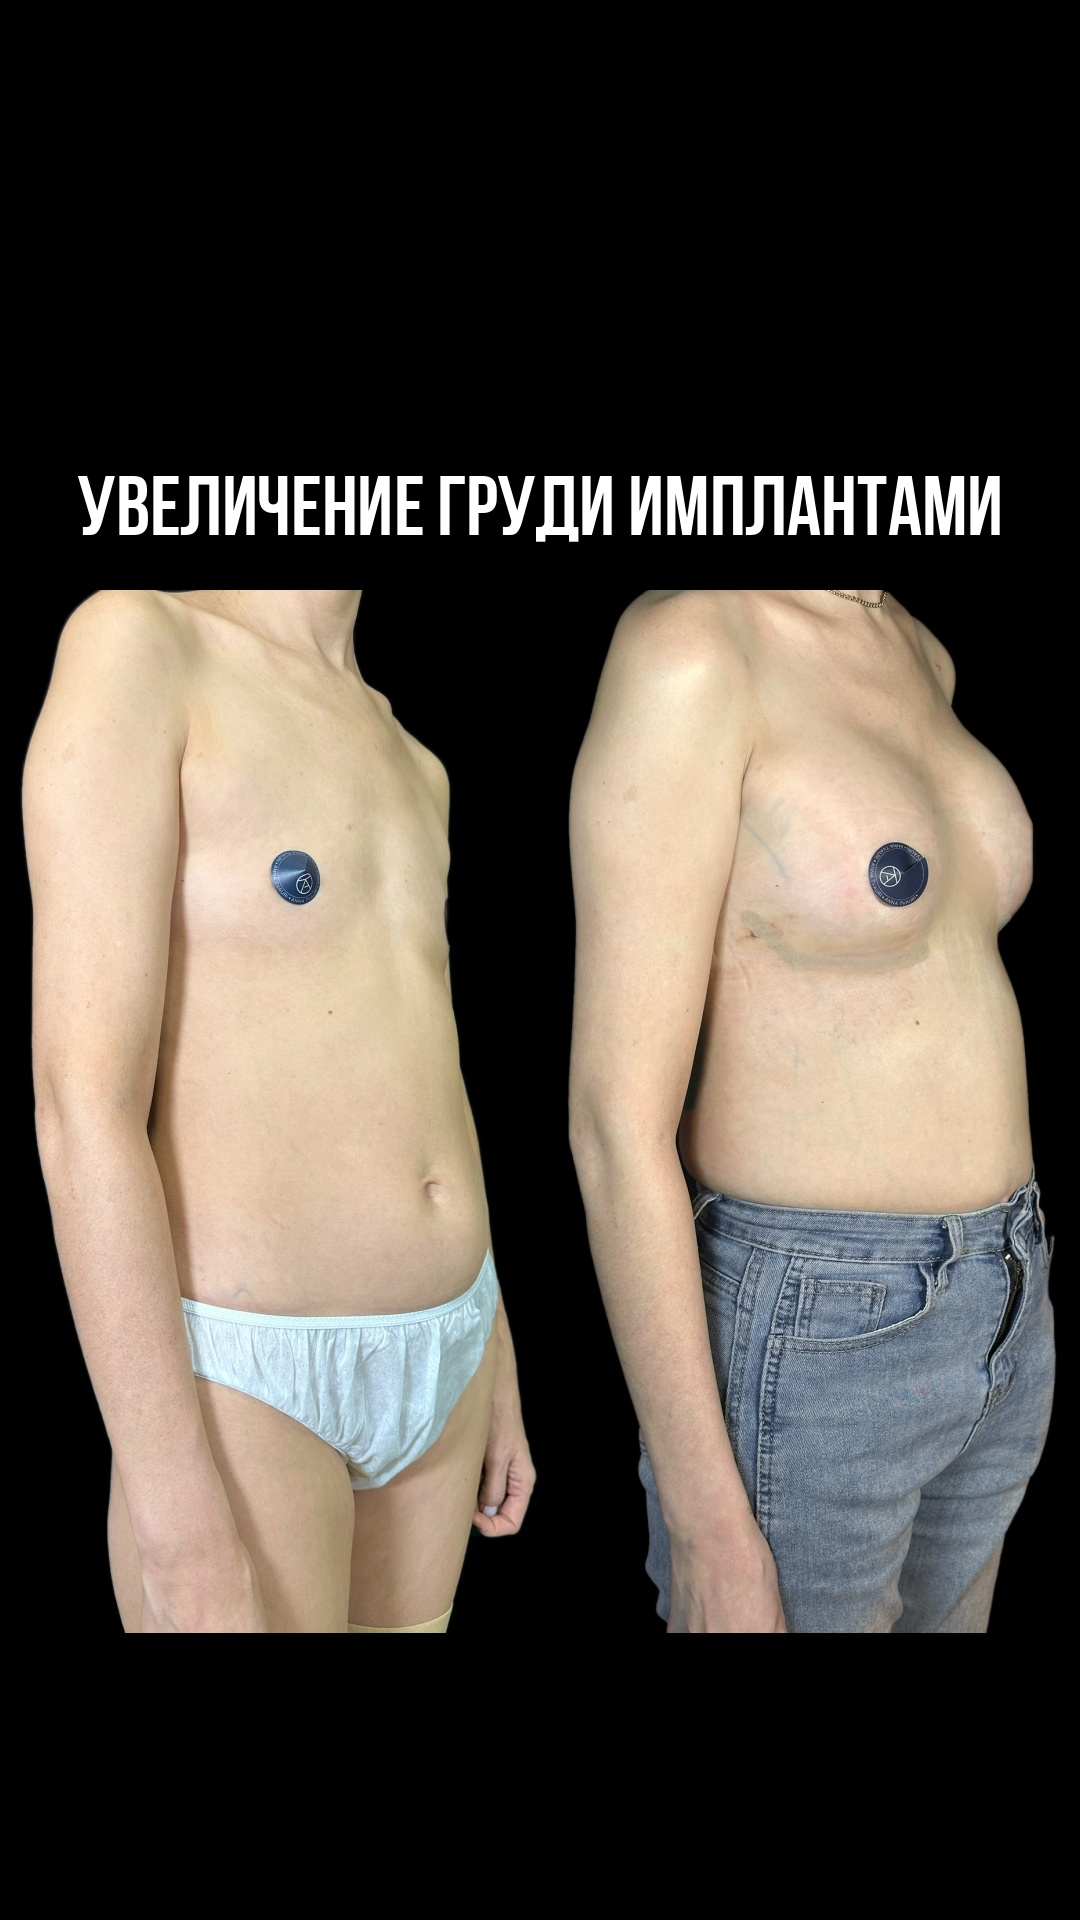
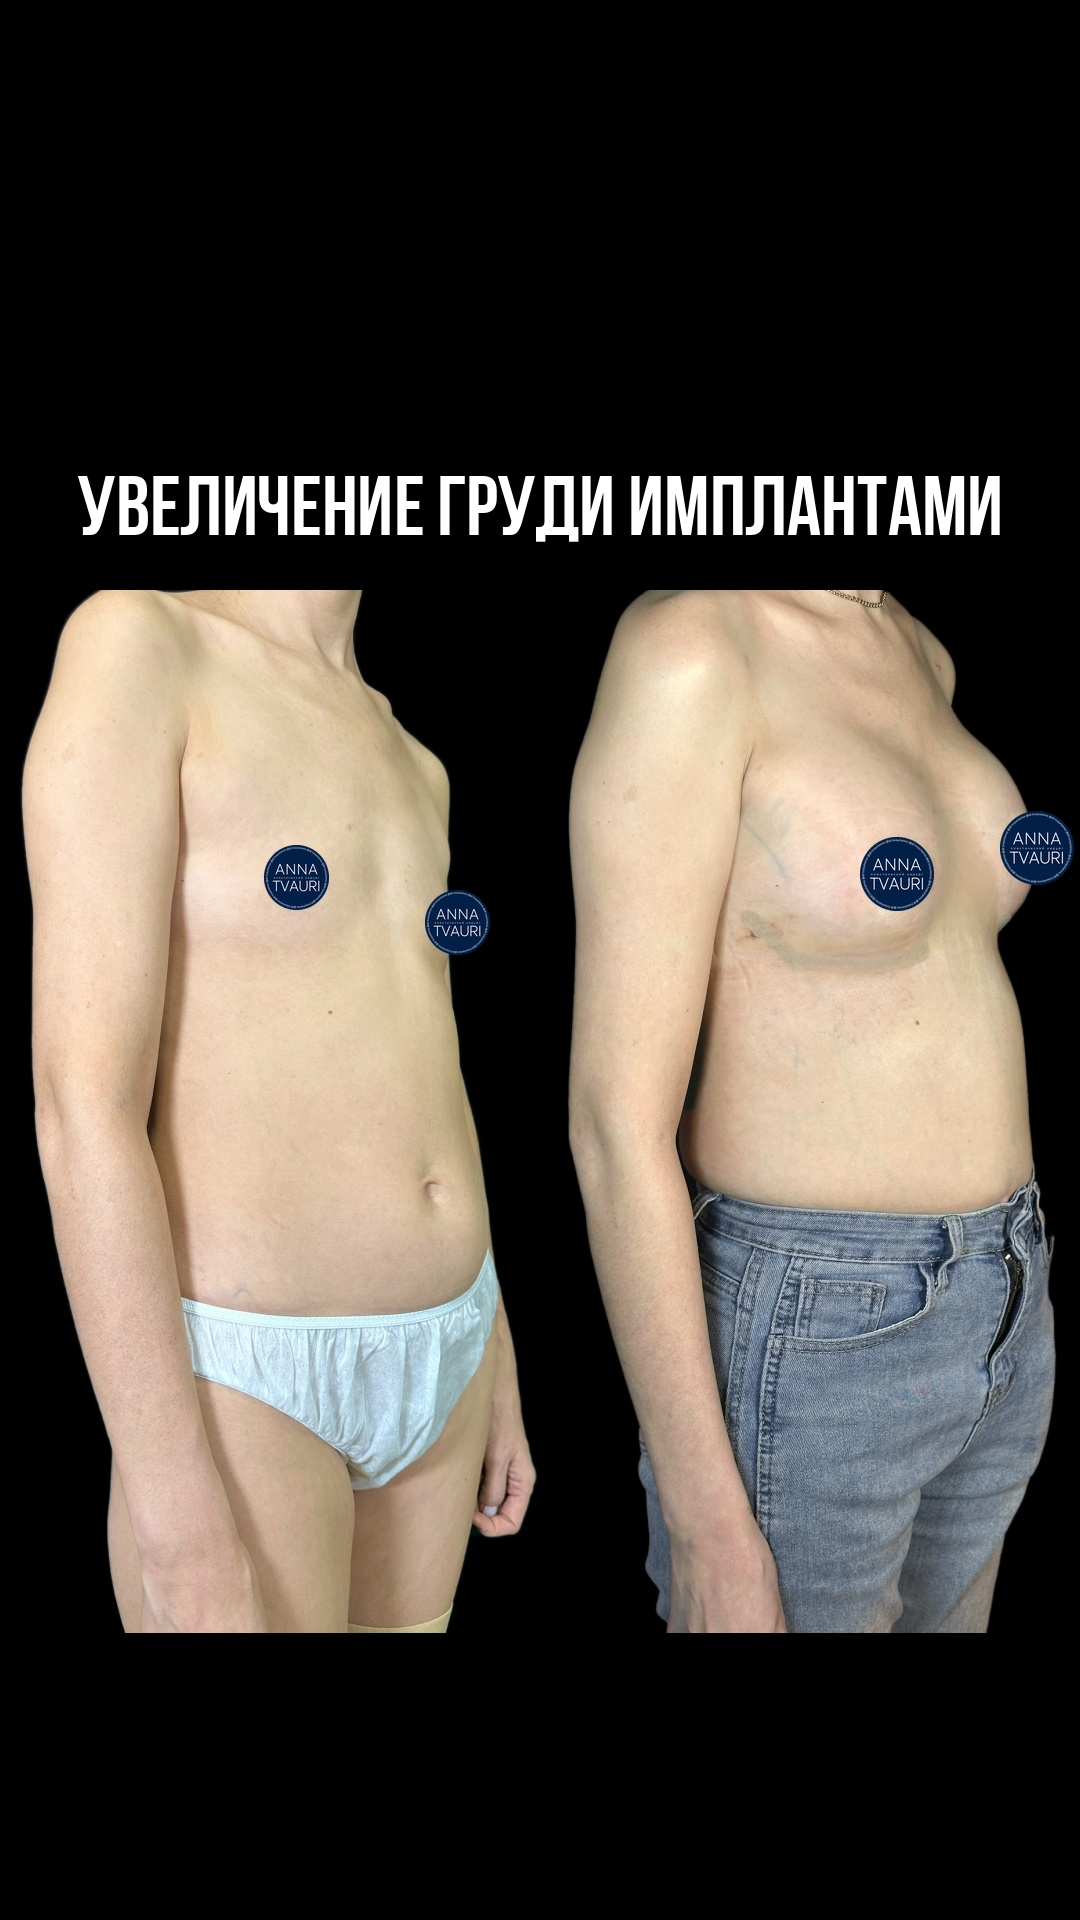
Collage 2: clinic stickers on both breasts, before and after
Claude-Session: https://claude.ai/code/session_01DoBoRz2HUe4yvMBz6dWv4L

diff --git a/tools/collage_breast_implants_2.py b/tools/collage_breast_implants_2.py
@@ -15,7 +15,11 @@ TITLE = "УВЕЛИЧЕНИЕ ГРУДИ ИМПЛАНТАМИ"
 
 # both photos are shot from the same distance -> one scale; aligned on the near sticker
 # before: chin ends at y~60, after: chin ~100 + chain; frames end at 2016 (after: sticker+1316)
-SPEC = {"before": dict(sticker=565, cx=652), "after": dict(sticker=700, cx=660)}
+# nipples (near, far) get the clinic sticker on top, d = diameter in source px (covers the whole areola);
+# the far one hangs over the breast edge like on the reference cover
+SPEC = {"before": dict(sticker=565, cx=652, nipples=[(697, 571), (975, 648)], d=112),
+        "after": dict(sticker=700, cx=660, nipples=[(811, 700), (1052, 655)], d=128)}
+STICKER = os.path.join(ROOT, "collage_lipofiling_lift/sticker_anna_tvauri.png")
 S = 0.58
 UP, DOWN = 490, 1310             # cut: sticker-UP (neck, under both chins) .. sticker+DOWN (bottom of the after frame)
 STICKER_Y = 590 + int(UP * S)    # photo band starts at y 590
@@ -110,6 +114,16 @@ def warm(img, da=4.0, db=8.0, dl=2.0):
     return cv2.cvtColor(lab.clip(0, 255).astype(np.uint8), cv2.COLOR_LAB2BGR)
 
 
+def put_stickers(pil, name, x_off):
+    sp = SPEC[name]; w = W // 2
+    x0 = int(round(sp["cx"] * S)) - w // 2
+    d = int(round(sp["d"] * S))
+    st = Image.open(STICKER).convert("RGBA").resize((d, d), Image.LANCZOS)
+    for x, y in sp["nipples"]:
+        cx = x * S - x0 + x_off; cy = STICKER_Y + (y - sp["sticker"]) * S
+        pil.alpha_composite(st, (int(round(cx - d / 2)), int(round(cy - d / 2))))
+
+
 def main():
     before, after = cv2.imread(BEFORE), cv2.imread(AFTER)
     after = soften_bruises(after)
@@ -118,10 +132,12 @@ def main():
     canvas = np.zeros((H, W, 3), np.uint8)
     canvas[:, :W // 2] = panel("before", before)
     canvas[:, W // 2:] = panel("after", after)
-    pil = Image.fromarray(canvas[..., ::-1]); d = ImageDraw.Draw(pil)
+    pil = Image.fromarray(canvas[..., ::-1]).convert("RGBA")
+    put_stickers(pil, "before", 0); put_stickers(pil, "after", W // 2)
+    d = ImageDraw.Draw(pil)
     ft = ImageFont.truetype(BEBAS, 84)
     d.text(((W - d.textlength(TITLE, font=ft)) / 2, TITLE_Y), TITLE, font=ft, fill=(255, 255, 255))
-    pil.save(OUT, quality=95)
+    pil.convert("RGB").save(OUT, quality=95)
     print("wrote", OUT)
 
 

diff --git a/collage_breast_implants_2/README.md b/collage_breast_implants_2/README.md
@@ -3,6 +3,7 @@
 `kollazh.jpg` — 1080×1920, как обложка в `cover_breast_implants/`: чёрный фон, слева ДО, справа ПОСЛЕ,
 сверху заголовок Bebas «УВЕЛИЧЕНИЕ ГРУДИ ИМПЛАНТАМИ».
 Оба фото в одном масштабе, выровнены по стикеру и обрезаны ровно: сверху по шее (под подбородком), снизу по краю кадра ПОСЛЕ.
+Фирменные стикеры ANNA TVAURI наложены на обе груди на ДО и ПОСЛЕ (дальний — поверх края груди, как на обложке).
 Кожа на ПОСЛЕ подогнана по цвету под ДО, синяки на ПОСЛЕ слегка приглушены, обоим фото добавлено тепла (джинсы, бельё и стикеры — без изменений).
 
 Рендер: `python3 tools/collage_breast_implants_2.py ДО.jpg ПОСЛЕ.jpg collage_breast_implants_2/kollazh.jpg`
